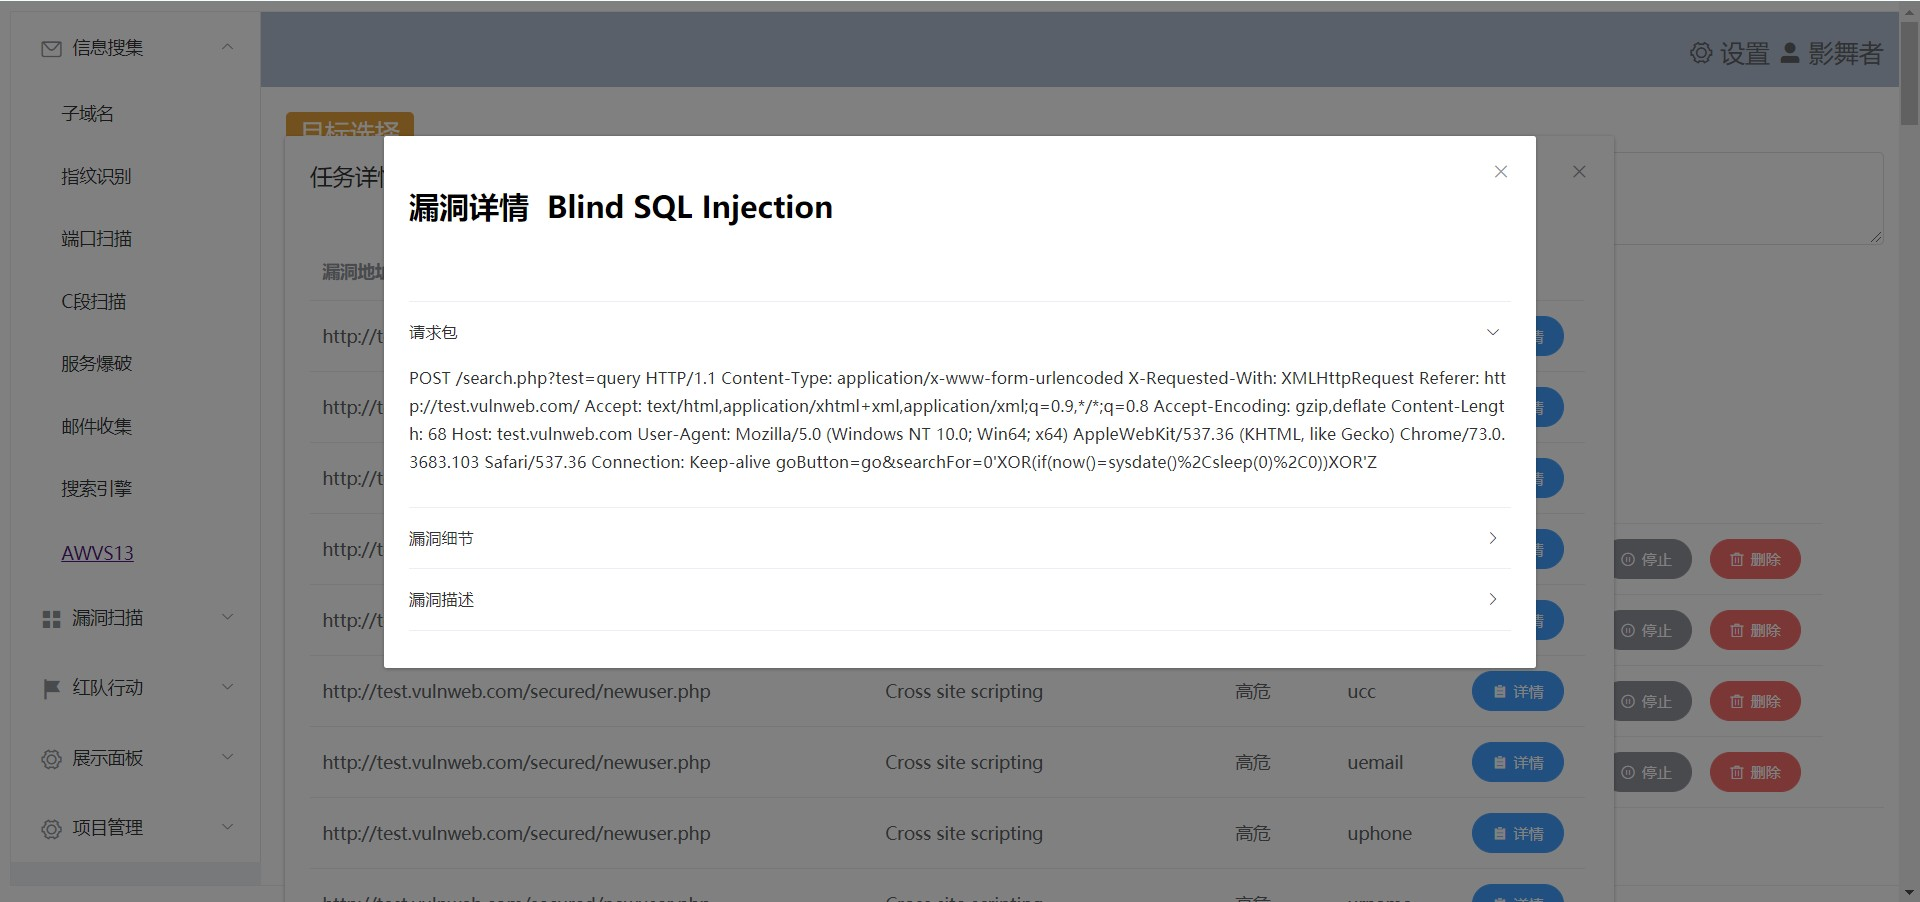
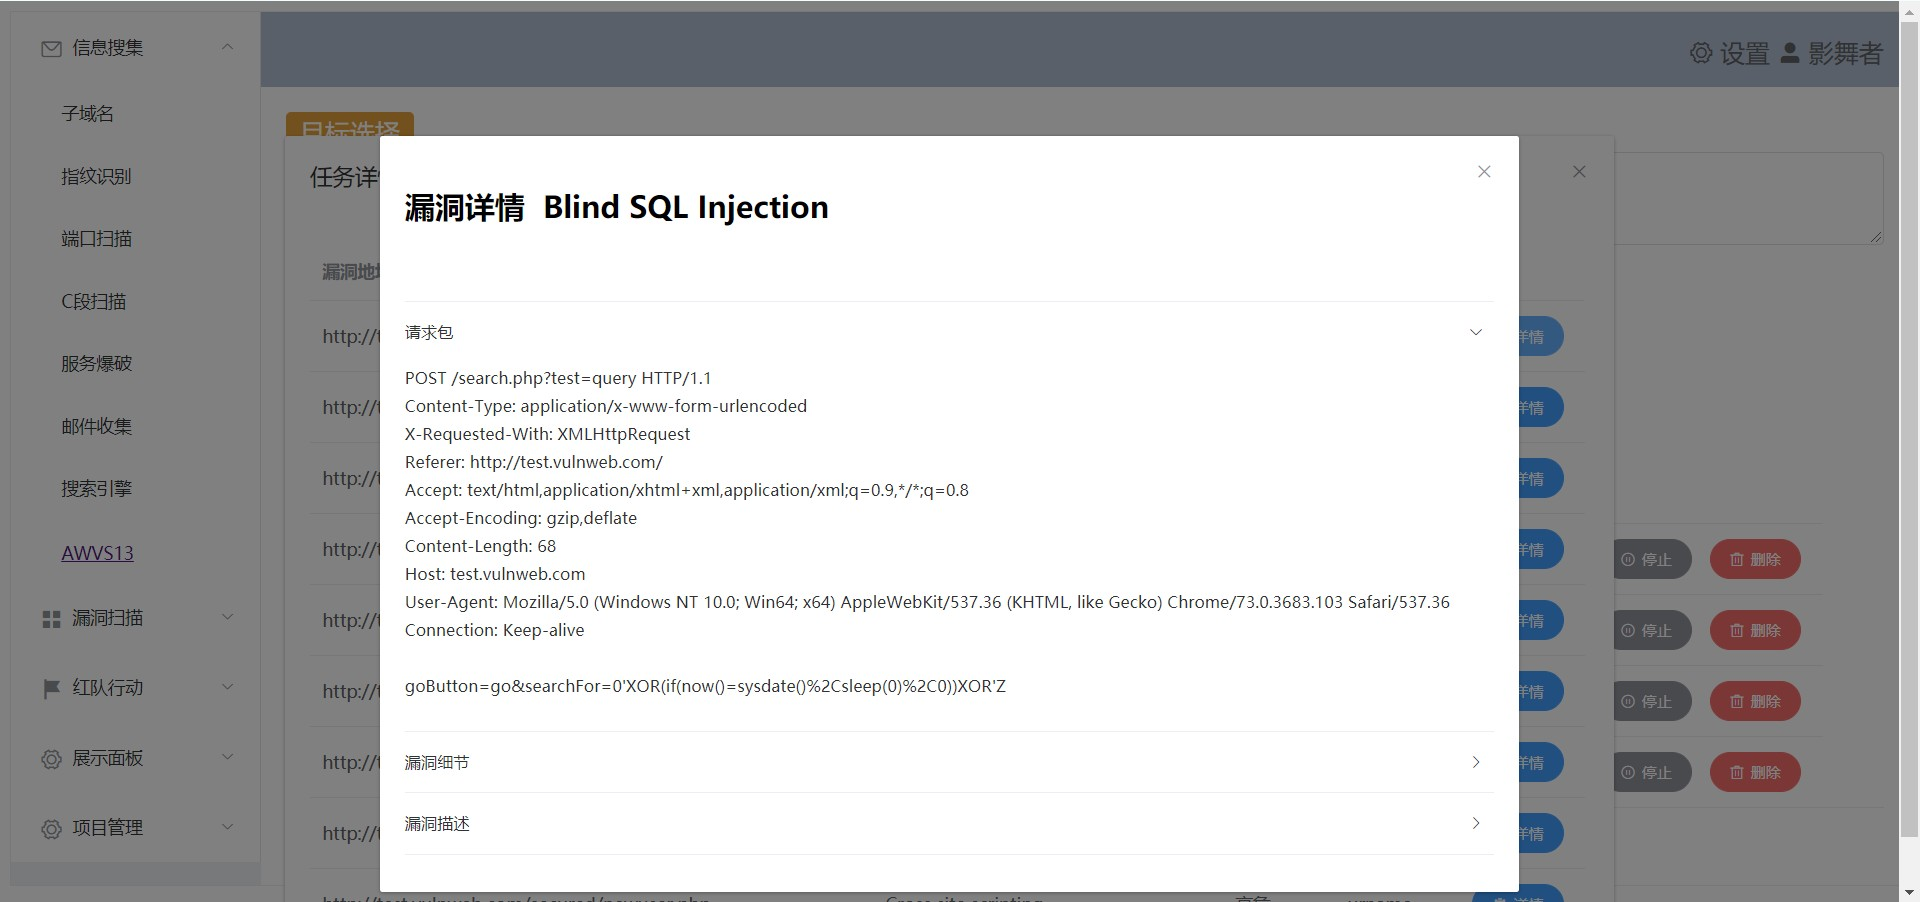
添加请求包换行

diff --git a/vanscan/templates/awvs13.html b/vanscan/templates/awvs13.html
@@ -146,15 +146,15 @@
 
                <el-collapse v-model="activeNames" accordion >
                 <el-collapse-item title="请求包" name="1">
-                  <div>{{logvulinfo.request}}</div>
+                  <div style="white-space: pre-wrap;">{{logvulinfo.request}}</div>
                 </el-collapse-item>
                 <el-collapse-item title="漏洞细节" name="2">
-                  <div>地址<br> {{logvulinfo.affects_url}}</div>
-                  <div>参数<br>{{logvulinfo.affects_detail}}</div>
-                  <div>细节<br>{{logvulinfo.details}}</div>
+                  <div>地址<br/> {{logvulinfo.affects_url}}</div>
+                  <div>参数<br/>{{logvulinfo.affects_detail}}</div>
+                  <div >细节<br/>{{logvulinfo.details}}</div>
                 </el-collapse-item>
                   <el-collapse-item title="漏洞描述" name="3">
-                  <div>{{logvulinfo.description}}</div>
+                  <div style="white-space: pre-wrap;">{{logvulinfo.description}}</div>
                 </el-collapse-item>
               </el-collapse>
             </el-dialog>
@@ -324,7 +324,10 @@
         else if (val===2) return '中危'
         else if (val===3) return '高危'
       }
+
     },
+    
+    
 
   })  
 </script> 

diff --git a/vanscan/templates/index.html b/vanscan/templates/index.html
@@ -146,15 +146,15 @@
 
                <el-collapse v-model="activeNames" accordion >
                 <el-collapse-item title="请求包" name="1">
-                  <div>{{logvulinfo.request}}</div>
+                  <div style="white-space: pre-wrap;">{{logvulinfo.request}}</div>
                 </el-collapse-item>
                 <el-collapse-item title="漏洞细节" name="2">
-                  <div>地址<br> {{logvulinfo.affects_url}}</div>
-                  <div>参数<br>{{logvulinfo.affects_detail}}</div>
-                  <div>细节<br>{{logvulinfo.details}}</div>
+                  <div>地址<br/> {{logvulinfo.affects_url}}</div>
+                  <div>参数<br/>{{logvulinfo.affects_detail}}</div>
+                  <div >细节<br/>{{logvulinfo.details}}</div>
                 </el-collapse-item>
                   <el-collapse-item title="漏洞描述" name="3">
-                  <div>{{logvulinfo.description}}</div>
+                  <div style="white-space: pre-wrap;">{{logvulinfo.description}}</div>
                 </el-collapse-item>
               </el-collapse>
             </el-dialog>
@@ -324,7 +324,10 @@
         else if (val===2) return '中危'
         else if (val===3) return '高危'
       }
+
     },
+    
+    
 
   })  
 </script> 
